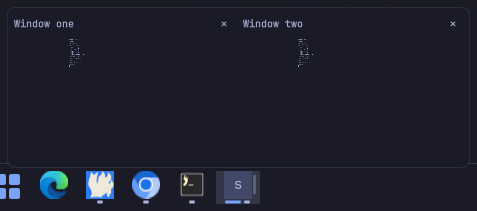
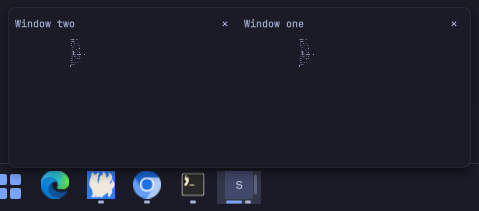
Give the Preview a drop shadow like the other menus (#57)
The Preview popup is now larger than its card by the shadow's room on every side, and only the card takes the pointer, so the transparent band never covers the Dock's icons.

diff --git a/Service.qml b/Service.qml
@@ -2219,7 +2219,7 @@ Item {
         }
         readonly property int thumbWidth: {
           var n = Math.max(1, windowIds.length)
-          var room = panel.width - Style.spacing.xs * 2 - Style.spacing.sm * 2 - (Style.spacing.xs * 2 + Style.spacing.xs) * n
+          var room = panel.width - Style.spacing.xs * 2 - Style.spacing.sm * 2 - root.menuShadow * 2 - (Style.spacing.xs * 2 + Style.spacing.xs) * n
           return Math.max(Style.space(80), Math.min(Style.space(220), Math.floor(room / n)))
         }
         readonly property int thumbHeight: Math.round(thumbWidth * 124 / 220)
@@ -2256,8 +2256,12 @@ Item {
 
         visible: previewState.showing && liveItem !== null
         color: "transparent"
-        implicitWidth: previewRow.implicitWidth + Style.spacing.sm * 2
-        implicitHeight: previewRow.implicitHeight + Style.spacing.sm * 2
+        // Room for the card's shadow on every side (see root.menuShadow).
+        implicitWidth: previewRow.implicitWidth + Style.spacing.sm * 2 + root.menuShadow * 2
+        implicitHeight: previewRow.implicitHeight + Style.spacing.sm * 2 + root.menuShadow * 2
+        // Only the card takes the pointer, so the empty band that holds the
+        // shadow never gets between the pointer and the Dock's icons.
+        mask: Region { item: previewCard }
 
         onVisibleChanged: {
           revealState.set("preview", previewPopup.visible)
@@ -2281,7 +2285,7 @@ Item {
             var x = previewState.anchorX - previewPopup.implicitWidth / 2
             x = Math.max(Style.spacing.xs, Math.min(x, panel.width - previewPopup.implicitWidth - Style.spacing.xs))
             previewAnchor.rect.x = Math.round(x)
-            previewAnchor.rect.y = Math.round(Math.max(Style.spacing.xs, previewState.anchorY - previewPopup.implicitHeight - Style.spacing.xs))
+            previewAnchor.rect.y = Math.round(Math.max(Style.spacing.xs, previewState.anchorY - previewPopup.implicitHeight - Style.spacing.xs + root.menuShadow))
           }
         }
 
@@ -2303,14 +2307,25 @@ Item {
           anchors.fill: parent
           clip: true
 
+          RectangularShadow {
+            anchors.fill: previewCard
+            radius: previewCard.radius
+            blur: root.menuShadow
+            offset.y: Style.space(4)
+            spread: 0
+            color: Qt.rgba(0, 0, 0, 0.6)
+          }
+
           Rectangle {
-            width: parent.width
-            height: parent.height
+            id: previewCard
+            x: root.menuShadow
+            width: parent.width - root.menuShadow * 2
+            height: parent.height - root.menuShadow * 2
             radius: root.menuRadius
             color: root.colPopupBackground
             border.width: Style.normalBorderWidth
             border.color: root.colHairline
-            y: (1 - previewPopup.slide) * height
+            y: root.menuShadow + (1 - previewPopup.slide) * (height + root.menuShadow)
 
             HoverHandler {
               onHoveredChanged: previewState.popupHover(hovered)
